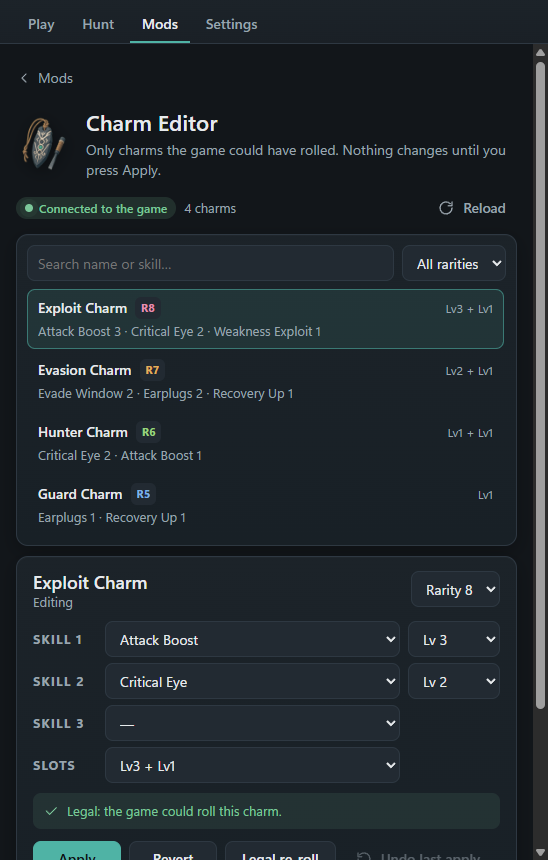
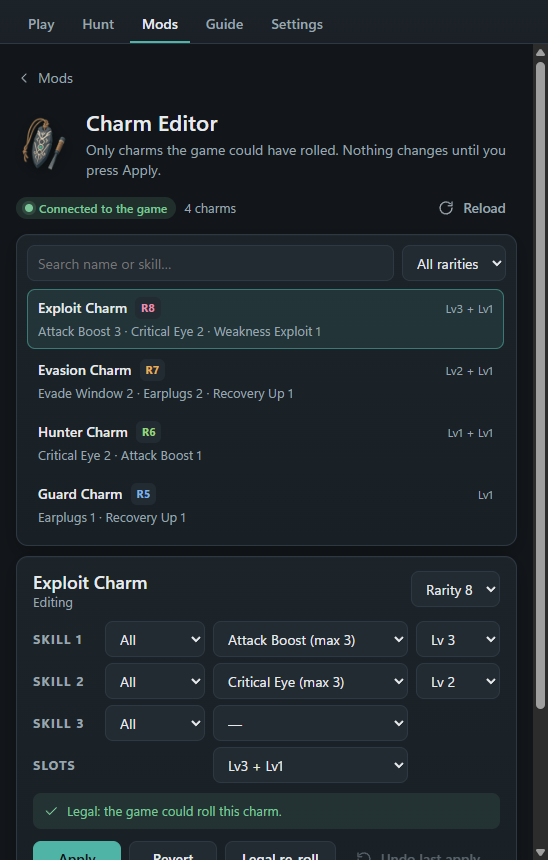
Front page for 0.9.1: weakness stars, charm and item editor additions

diff --git a/README.md b/README.md
@@ -54,7 +54,7 @@ They are controlled from the app while the game runs; there is no menu in the ga
 | Charm Editor | Item Editor |
 |---|---|
 | ![Charm Editor](img/charms.png) | ![Item Editor](img/items.png) |
-| Set the skills and slots of your rolled charms. The dropdowns only offer combinations the game itself can roll. Presets, copy from another charm, re-roll, share codes and undo. | A quick list of the items you use, with **Top up** per item or for the whole list, in box or pouch. Search any other item. Zenny, points and vouchers in capped steps. |
+| Set the skills and slots of your rolled charms. The dropdowns only offer combinations the game itself can roll. Each skill shows its highest level; the list can be narrowed to weapon or armor skills. Presets, copy from another charm, re-roll, share codes and undo. | A quick list of the items you use: add 1, 10, 100 or any amount, or **Top up** per item or for the whole list, in box or pouch. Search any other item. Zenny, points and vouchers can be added in capped steps and taken away again. |
 
 | Artian Editor | Artian Parts | Shop Stock |
 |---|---|---|
@@ -72,7 +72,7 @@ A short tour explains every tab, and you can replay it under Settings → About.
 ## Features
 
 - **One-click setup and removal** of [REFramework](https://github.com/praydog/REFramework) and a build of [HunterPie](https://github.com/HunterPie/HunterPie).
-- **Hunt tab**: target monster with health, stamina, capture line, parts and status build-up; element and ailment weaknesses in three steps and the best spots to hit; other monsters; damage meter with DPS, average and charts.
+- **Hunt tab**: target monster with health, stamina, capture line, parts and status build-up; element and ailment weaknesses with one to three stars (only what the monster is weak to) and the best spots to hit; other monsters; damage meter with DPS, average and charts.
 - **Personal bests per quest** with a live comparison during the hunt.
 - **Hunt history**: the last 10 successful hunts, each with full party stats and a damage-over-the-fight chart, and **Save as image** to share one.
 - **Guide tab**: every feature explained, and the weaknesses of all 34 large monsters with search.
@@ -143,8 +143,8 @@ Eine kleine Windows-App für **Monster Hunter Wilds** (Steam). Ein Klick richtet
 
 Sie werden aus der App bedient, während das Spiel läuft; im Spiel gibt es kein Menü. Sie verändern deinen Spielstand: Jeder fragt vor dem Einschalten nach, und solange einer an ist, sichert die App deinen Spielstand vor jedem Spielstart.
 
-- **Charm Editor**: Fähigkeiten und Slots deiner gewürfelten Talismane. Zur Auswahl steht nur, was das Spiel selbst würfeln kann. Vorlagen, Kopieren, Neu würfeln, Codes zum Teilen, Rückgängig.
-- **Item Editor**: eine Schnellliste deiner Items mit „Top up“ pro Item oder für die ganze Liste, in Kiste oder Beutel. Jedes andere Item per Suche. Zenny, Punkte und Gutscheine in begrenzten Schritten.
+- **Charm Editor**: Fähigkeiten und Slots deiner gewürfelten Talismane. Zur Auswahl steht nur, was das Spiel selbst würfeln kann. Jede Fähigkeit zeigt ihre höchste Stufe; die Liste lässt sich auf Waffen- oder Rüstungsfähigkeiten eingrenzen. Vorlagen, Kopieren, Neu würfeln, Codes zum Teilen, Rückgängig.
+- **Item Editor**: eine Schnellliste deiner Items: 1, 10, 100 oder eine beliebige Anzahl hinzufügen, oder „Top up“ pro Item oder für die ganze Liste, in Kiste oder Beutel. Jedes andere Item per Suche. Zenny, Punkte und Gutscheine lassen sich in begrenzten Schritten hinzufügen und auch wieder abziehen.
 - **Artian Editor**: Element, Herstellungs- und Verstärkungsboni deiner Artian-Waffen; bei besonderen Waffen auch Fokus und Fähigkeiten. Listen und Grenzen stammen aus dem Spiel.
 - **Artian Parts**: fügt Artian-Teile hinzu (Art, Seltenheit, Element, Bonus).
 - **Shop Stock**: mehr Items im Item-Laden, ganze Kategorien oder einzelne Items. Nur im Arbeitsspeicher; ausgeschaltet ist der Laden wieder der ursprüngliche.
